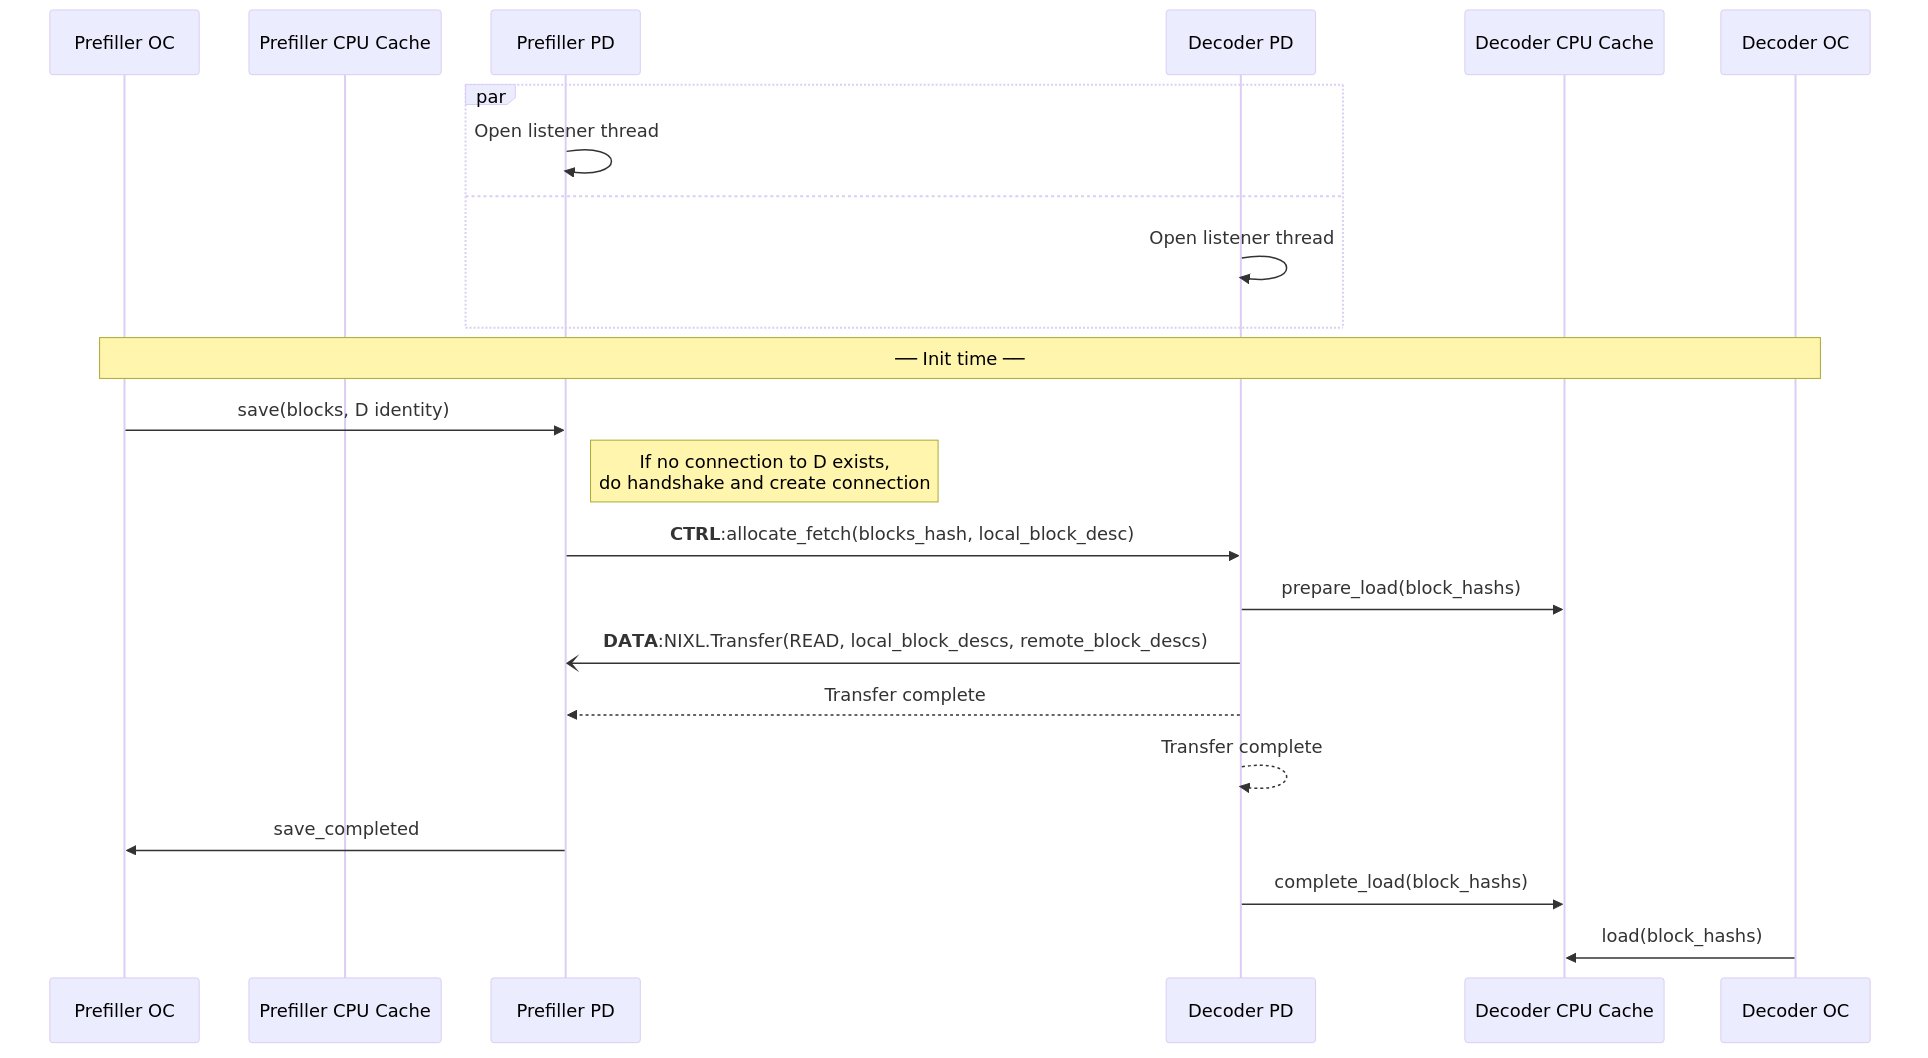
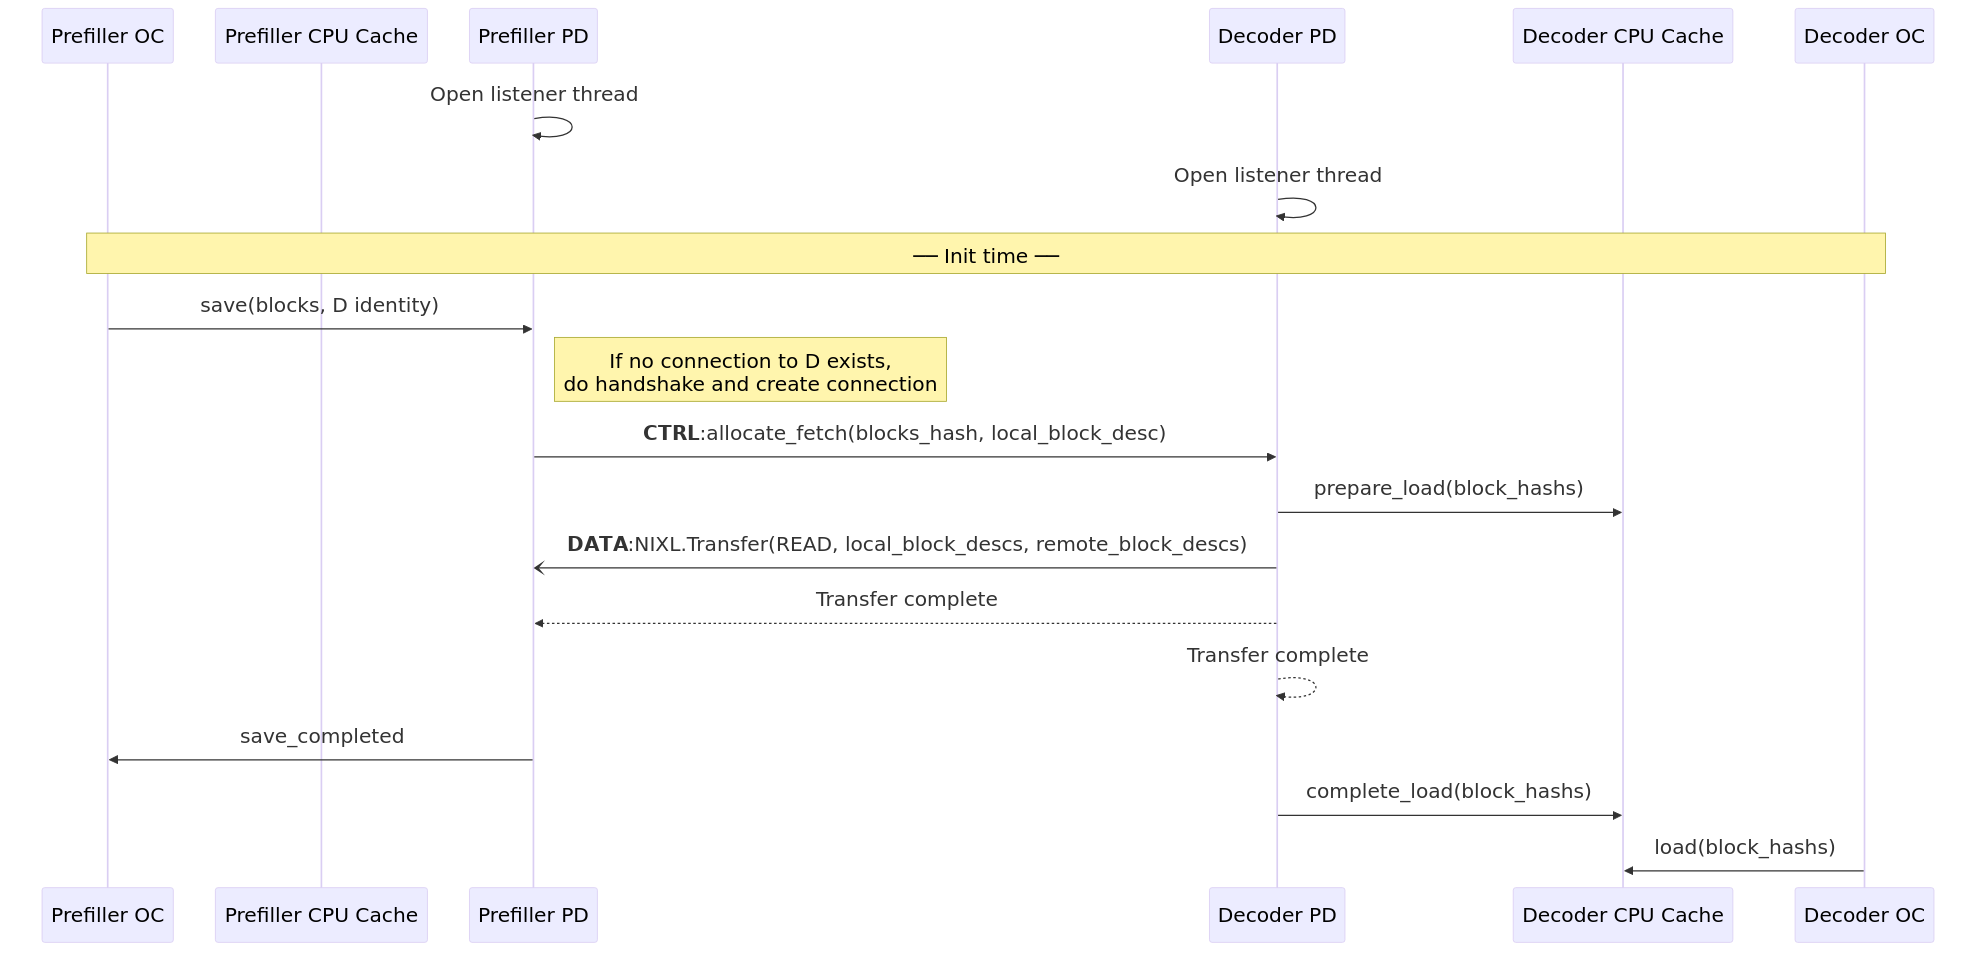
n/a

diff --git a/pd-connector/docs/prefill_decode_disaggregation_pull.md b/pd-connector/docs/prefill_decode_disaggregation_pull.md
@@ -9,11 +9,8 @@ sequenceDiagram
     participant Decoder_CPU_Cache as Decoder CPU Cache
     participant Decoder_OC as Decoder OC
 
-    par
-        Prefiller_PD->>Prefiller_PD: Open listener thread
-    and
-        Decoder_PD->>Decoder_PD: Open listener thread
-    end
+    Prefiller_PD->>Prefiller_PD: Open listener thread
+    Decoder_PD->>Decoder_PD: Open listener thread
 
     Note over Prefiller_OC,Decoder_OC: ── Init time ──
 

diff --git a/pd-connector/docs/prefill_decode_disaggregation_push.md b/pd-connector/docs/prefill_decode_disaggregation_push.md
@@ -9,11 +9,8 @@ sequenceDiagram
     participant Decoder_CPU_Cache as Decoder CPU Cache
     participant Decoder_OC as Decoder OC
 
-    par
-        Prefiller_PD->>Prefiller_PD: Open listener thread
-    and
-        Decoder_PD->>Decoder_PD: Open listener thread
-    end
+    Prefiller_PD->>Prefiller_PD: Open listener thread
+    Decoder_PD->>Decoder_PD: Open listener thread
 
     Note over Prefiller_OC,Decoder_OC: ── Init time ──
 
